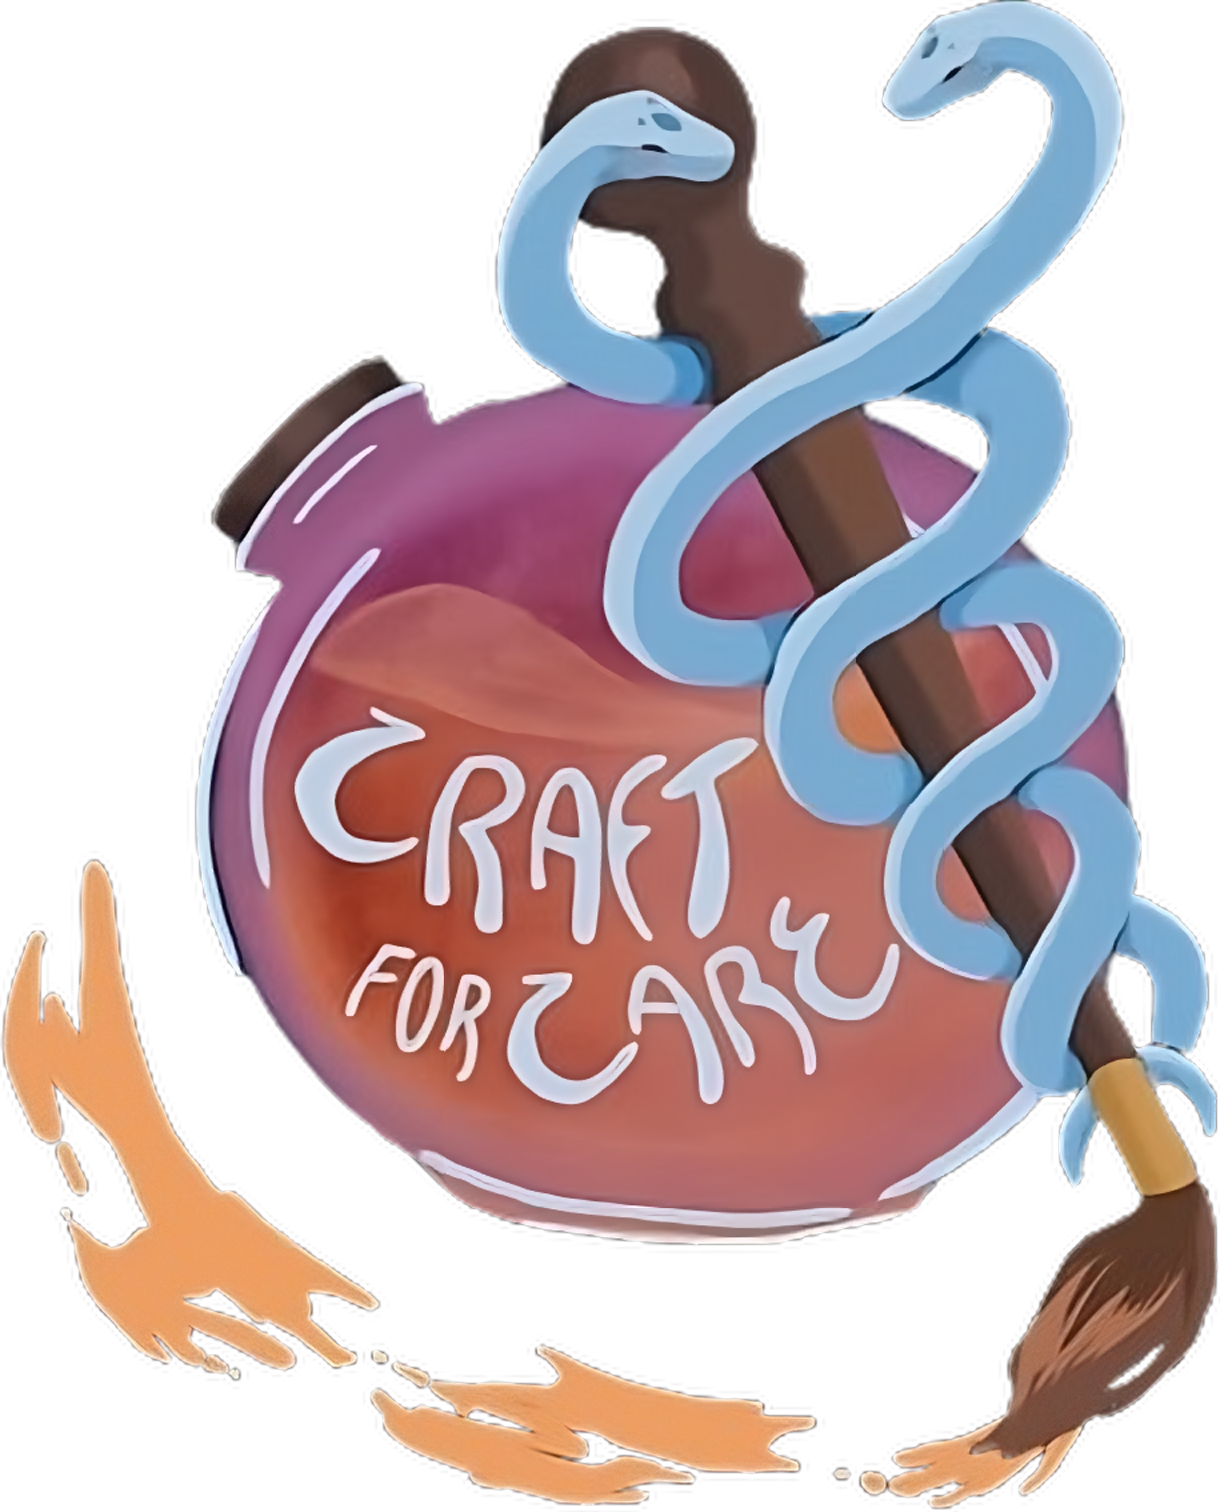
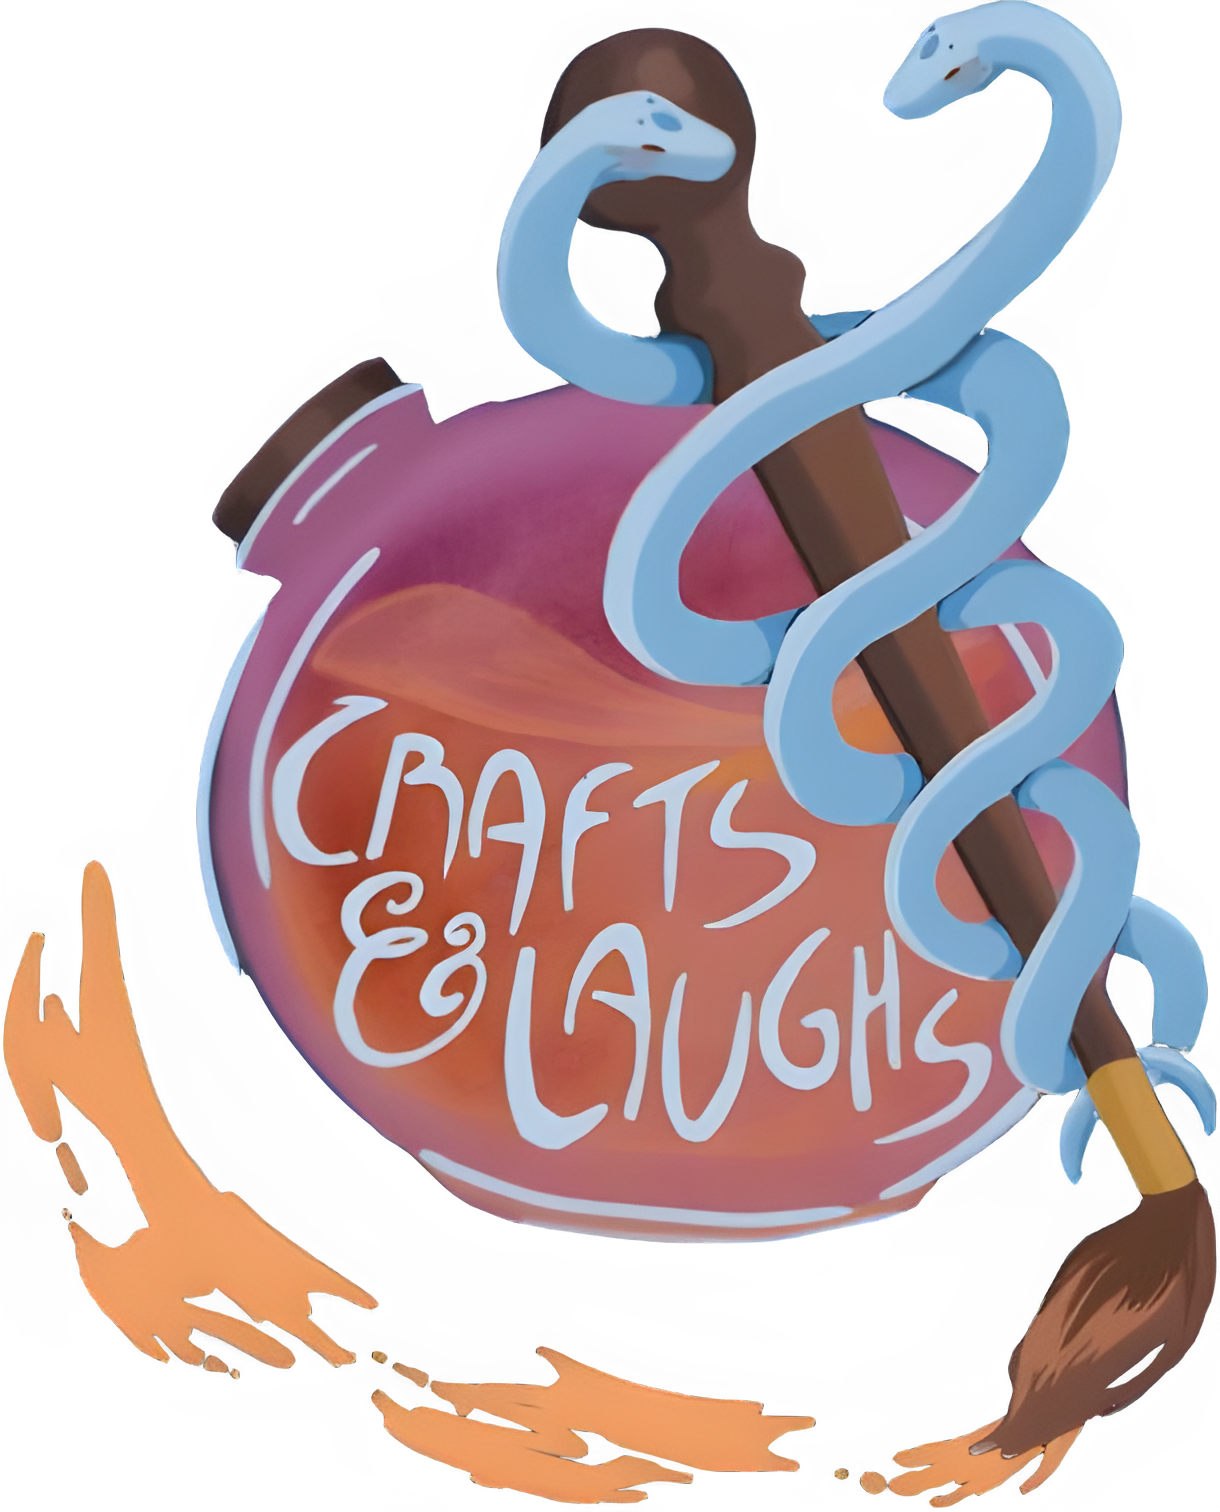
name change

diff --git a/chapter.html b/chapter.html
@@ -2,7 +2,7 @@
 <html lang="en">
 <head>
 	<meta charset="UTF-8" />
-	<title>Start a Chapter | Crafts for Care</title>
+	<title>Start a Chapter | Crafts & Laughs</title>
 	<meta name="viewport" content="width=device-width,initial-scale=1" />
 	<meta name="description" content="Healing, Handmade." />
 	<link rel="stylesheet" type="text/css" href="style.css" />
@@ -14,7 +14,7 @@
 		<div class="heroTitle">
 			<div class="heroTitleInner">
 				<h1>Start a Chapter</h1>
-				<p>Help Us Spread Crafts for Care.</p>
+				<p>Help Us Spread Crafts & Laughs.</p>
 			</div>
 		</div>
 	</div>
@@ -22,12 +22,12 @@
         <h2>What is a Chapter?</h2>
         <p>A chapter is a local or regional branch of an organization (like a club) that operates under the main branch. Chapters share the same mission and goals, carrying out programs and activities to serve their specific communities. While they have some autonomy, chapters adhere to the guidelines and policies set by the main organization, ensuring consistency and alignment across all branches.</p>
         <h2>Why Start a Chapter?</h2>
-        <p>Starting a chapter lets you bring Crafts for Care's mission to your community. While we aim to reach many places, our team can only do so much from afar. By starting a chapter, you can make a positive local impact, support kids in hospitals, help peers de-stress, and develop leadership and communication skills. You'll also share and learn new crafts, innovate, and spread love in your community.</p>
+        <p>Starting a chapter lets you bring Crafts & Laughs's mission to your community. While we aim to reach many places, our team can only do so much from afar. By starting a chapter, you can make a positive local impact, support kids in hospitals, help peers de-stress, and develop leadership and communication skills. You'll also share and learn new crafts, innovate, and spread love in your community.</p>
         <h2>How to Start a Chapter</h2>
         <ol>
             <li>Determine your motive for starting a chapter and think of ways you will achieve your goals and if you want to make your chapter a school club, city based organization, or state based organization.</li>
             <li>If your chapter is a school club then fill out necessary paperwork and register your club within your school.</li>
-            <li>Register your chapter as a Crafts for Care chapter by filling out the form in the section below.</li>
+            <li>Register your chapter as a Crafts & Laughs chapter by filling out the form in the section below.</li>
             <li>After your chapter has been approved, assemble your officer team, which includes positions you believe necessary.</li>
             <li>Create social media accounts for your chapter (Instagram, Tik Tok, and others) and promote your chapter. You can create flyers, tell your friends or classmates, post on social media, or have booths at your school at the beginning of the year.</li>
             <li>Reach out to local hospitals and find one that takes handmade donations or monetary donations.</li>
@@ -35,9 +35,8 @@
             <li>Create innovative incentives/ways to get members involved and engorged to work for this cause. You can also reach out to other clubs or organizations to create a combined event for members.</li>
         </ol>
         <br>
-        <a href="assets/downloadables/chapter-guide.png">Download the poster</a>
         <h2>Register a Chapter</h2>
-        <p>Thank you for helping us spread Crafts for Care! You can register a chapter at this <a href="https://docs.google.com/forms/d/e/1FAIpQLSda7LVN9CGUftHo8gjqzjs0jZqcqe2pvyhgzqc8HUGIG4jAKQ/viewform">form</a>.</p>
+        <p>Thank you for helping us spread Crafts & Laughs! You can register a chapter at this <a href="https://docs.google.com/forms/d/e/1FAIpQLSda7LVN9CGUftHo8gjqzjs0jZqcqe2pvyhgzqc8HUGIG4jAKQ/viewform">form</a>.</p>
 	</div>
 	<script src="app.js"></script>
 </body>

diff --git a/volunteer.html b/volunteer.html
@@ -2,7 +2,7 @@
 <html lang="en">
 <head>
 	<meta charset="UTF-8" />
-	<title>Volunteer | Crafts for Care</title>
+	<title>Volunteer | Crafts & Laughs</title>
 	<meta name="viewport" content="width=device-width,initial-scale=1" />
 	<meta name="description" content="Healing, Handmade." />
 	<link rel="stylesheet" type="text/css" href="style.css" />
@@ -20,7 +20,7 @@
 	</div>
 	<div class="content">
         <h2>Why Donate?</h2>
-        <p>When you donate to Crafts for Care, you're providing emotional support and comfort to children facing hospitalization and the mental health challenges that come with stays in a hospital. Your handmade items are tangible expressions of your love and care - and as simple an act as it might be to <i>give</i>, it's nonetheless so meaningful an act to <i>receive</i>. And for you, the act of creating, of making art, helps your mental health and reduces the burden on your shoulders, all while enhancing your sense of self and your sense of purpose. Together, we can make a difference and <mark>Craft for Care</mark>.</p>
+        <p>When you donate to Crafts & Laughs, you're providing emotional support and comfort to children facing hospitalization and the mental health challenges that come with stays in a hospital. Your handmade items are tangible expressions of your love and care - and as simple an act as it might be to <i>give</i>, it's nonetheless so meaningful an act to <i>receive</i>. And for you, the act of creating, of making art, helps your mental health and reduces the burden on your shoulders, all while enhancing your sense of self and your sense of purpose. We can make a difference, as artists and as students, <mark>together</mark>.</p>
         <h2>Why Hospitals, Why Children?</h2>
         <p>Children in hospitals often face challenging and frightening experiences that can leave them isolated and anxious. This is a feeling we, the founders, know too well, and a feeling we wish on nobody else. Our mission is to bring a touch of warmth and joy to these children's lives during their stays, our gifts a small way to nurture a more positive and welcoming environment. Our gifts are a way of showing that <i>someone</i> is there, that someone cares. We hope to uplift spirits, boost morale - remind these children that they are not alone in their journey.</p>
         <h2>Guidelines for Crafting</h2>
@@ -32,7 +32,6 @@
             <li>Be creative and have fun.</li>
         </ol>
         <br>
-        <a href="assets/downloadables/guidelines.png">Download the poster</a>
         <a href="tutorials.html">Look at our tutorials</a>
         <h2>Donate Crafts</h2>
         <a href="https://docs.google.com/forms/d/e/1FAIpQLScFyUwloGY98F3hT7ePAlsjyCUBly0u3bURCt0u6t5ly6wiwg/viewform">Submission form</a>

diff --git a/about.html b/about.html
@@ -2,7 +2,7 @@
 <html lang="en">
 <head>
 	<meta charset="UTF-8" />
-	<title>About Us | Crafts for Care</title>
+	<title>About Us | Crafts & Laughs</title>
 	<meta name="viewport" content="width=device-width,initial-scale=1" />
 	<meta name="description" content="Healing, Handmade." />
 	<link rel="stylesheet" type="text/css" href="style.css" />
@@ -20,7 +20,7 @@
 	</div>
 	<div class="content">
         <h2>Why Us?</h2>
-        <p>Despite our diverse cultural backgrounds, all of our founders are joined by a common thread - giving gifts. We've all seen how one simple act can unite families and strengthen communities. Inspired by our own experiences in hospitals, where we felt isolation and a longing for warmth, Crafts for Care was born. We aim to combine our passion for the arts with a personal touch, providing children with meaningful gifts that brighten their hospital stays and offer comfort during uncertain moments.</p>
+        <p>Despite our diverse cultural backgrounds, all of our founders are joined by a common thread - giving gifts. We've all seen how one simple act can unite families and strengthen communities. Inspired by our own experiences in hospitals, where we felt isolation and a longing for warmth, Crafts & Laughs was born. We aim to combine our passion for the arts with a personal touch, providing children with meaningful gifts that brighten their hospital stays and offer comfort during uncertain moments.</p>
 		<h2>Board of Directors</h2>
         <div class="profile">
             <img src="assets/images/juhi.png" class="pfp">
@@ -53,7 +53,7 @@
             </div>
         </div>
         <br>
-        <p>Hello! I am William Choi-Kim, and I am a junior in high school. I've been passionate about art and creating since my formative years in elementary school, and giving back and volunteering has remained a part of my life for longer than I can remember. Of course, I've also always been a code nerd at heart, so I'm responsible for... well, this website! I also manage finances for Crafts for Care, and I'm excited to have the chance to join my interests here.</p>	</div>
+        <p>Hello! I am William Choi-Kim, and I am a junior in high school. I've been passionate about art and creating since my formative years in elementary school, and giving back and volunteering has remained a part of my life for longer than I can remember. Of course, I've also always been a code nerd at heart, so I'm responsible for... well, this website! I also manage finances for Crafts & Laughs, and I'm excited to have the chance to join my interests here.</p>	</div>
 	<script src="app.js"></script>
 </body>
 </html>

diff --git a/index.html b/index.html
@@ -2,7 +2,7 @@
 <html lang="en">
 <head>
 	<meta charset="UTF-8" />
-	<title>Crafts for Care</title>
+	<title>Crafts & Laughs</title>
 	<meta name="viewport" content="width=device-width,initial-scale=1" />
 	<meta name="description" content="Healing, Handmade." />
 	<link rel="stylesheet" type="text/css" href="style.css" />
@@ -13,17 +13,17 @@
 		<div class="bg"></div>
 		<div class="heroTitle">
 			<div class="heroTitleInner">
-				<h1>Crafts for Care</h1>
+				<h1>Crafts & Laughs</h1>
 				<p>Healing, Handmade.</p>
 			</div>
 		</div>
 	</div>
 	<div class="content">
 		<h2>Who Are We?</h2>
-		<p>Crafts for Care is a volunteer organization dedicated to teaching others how to create handmade crafts to donate and gift. Our mission is to be a platform for members to learn and create - by following our guided tutorials, by joining a chapter, or just by using their imagination. We collect handmade creations and donate to children battling illness, hoping to bring a smile to their faces or a sense of comfort to their hearts.
+		<p>Crafts & Laughs is a volunteer organization dedicated to teaching others how to create handmade crafts to donate and gift. Our mission is to be a platform for members to learn and create - by following our guided tutorials, by joining a chapter, or just by using their imagination. We collect handmade creations and donate to children battling illness, hoping to bring a smile to their faces or a sense of comfort to their hearts.
 		</p>
 		<h2>Why Are We Doing This?</h2>
-		<p>Art can't cure cancer, it can't end world hunger, it can't fix a broken relationship. But it can be a small glimmer of hope for someone in any of those situations. That's what Crafts for Care is about - being the lone star in the sky for those struggling with mental health, the one there for the entire community.</p>
+		<p>Art can't cure cancer, it can't end world hunger, it can't fix a broken relationship. But it can be a small glimmer of hope for someone in any of those situations. That's what Crafts & Laughs is about - being the lone star in the sky for those struggling with mental health, the one there for the entire community.</p>
 		<h2>How Can I Join?</h2>
 		<a href="volunteer.html">Volunteer</a>
 		<a href="https://docs.google.com/forms/d/e/1FAIpQLScFyUwloGY98F3hT7ePAlsjyCUBly0u3bURCt0u6t5ly6wiwg/viewform">Donate</a>

diff --git a/collaborate.html b/collaborate.html
@@ -2,7 +2,7 @@
 <html lang="en">
 <head>
 	<meta charset="UTF-8" />
-	<title>Collaborate | Crafts for Care</title>
+	<title>Collaborate | Crafts & Laughs</title>
 	<meta name="viewport" content="width=device-width,initial-scale=1" />
 	<meta name="description" content="Healing, Handmade." />
 	<link rel="stylesheet" type="text/css" href="style.css" />
@@ -20,7 +20,7 @@
 	</div>
 	<div class="content">
         <h2>Why Partner With Us?</h2>
-        <p>Crafts for Care is an organization working for the public benefit, run by passionate directors who actually believe in the cause we're working for. You can be assured that when you partner with us, you're a part of a long-term goal and well-run organization that helps the community and supports children.</p>
+        <p>Crafts & Laughs is an organization working for the public benefit, run by passionate directors who actually believe in the cause we're working for. You can be assured that when you partner with us, you're a part of a long-term goal and well-run organization that helps the community and supports children.</p>
         <br>
         <a href="mailto:craftsforcare44@gmail.com">Reach out</a>
 	</div>

diff --git a/tutorials.html b/tutorials.html
@@ -2,7 +2,7 @@
 <html lang="en">
 <head>
 	<meta charset="UTF-8" />
-	<title>Tutorials | Crafts for Care</title>
+	<title>Tutorials | Crafts & Laughs</title>
 	<meta name="viewport" content="width=device-width,initial-scale=1" />
 	<meta name="description" content="Healing, Handmade." />
 	<link rel="stylesheet" type="text/css" href="style.css" />
@@ -30,7 +30,6 @@
             <li>Make it public and upload your tutorial to the form and get volunteer hours!</li>
         </ol>
         <br>
-        <a href="assets/downloadables/tutorial.png">Download the poster</a>
         <a href="https://forms.gle/WE76iYKYS7Gibn9i6">Tutorial submission form</a>
 	</div>
 	<script src="app.js"></script>

diff --git a/contact.html b/contact.html
@@ -2,7 +2,7 @@
 <html lang="en">
 <head>
 	<meta charset="UTF-8" />
-	<title>Contact | Crafts for Care</title>
+	<title>Contact | Crafts & Laughs</title>
 	<meta name="viewport" content="width=device-width,initial-scale=1" />
 	<meta name="description" content="Healing, Handmade." />
 	<link rel="stylesheet" type="text/css" href="style.css" />

diff --git a/gallery.html b/gallery.html
@@ -2,7 +2,7 @@
 <html lang="en">
 <head>
 	<meta charset="UTF-8" />
-	<title>Gllaery | Crafts for Care</title>
+	<title>Gllaery | Crafts & Laughs</title>
 	<meta name="viewport" content="width=device-width,initial-scale=1" />
 	<meta name="description" content="Healing, Handmade." />
 	<link rel="stylesheet" type="text/css" href="style.css" />
